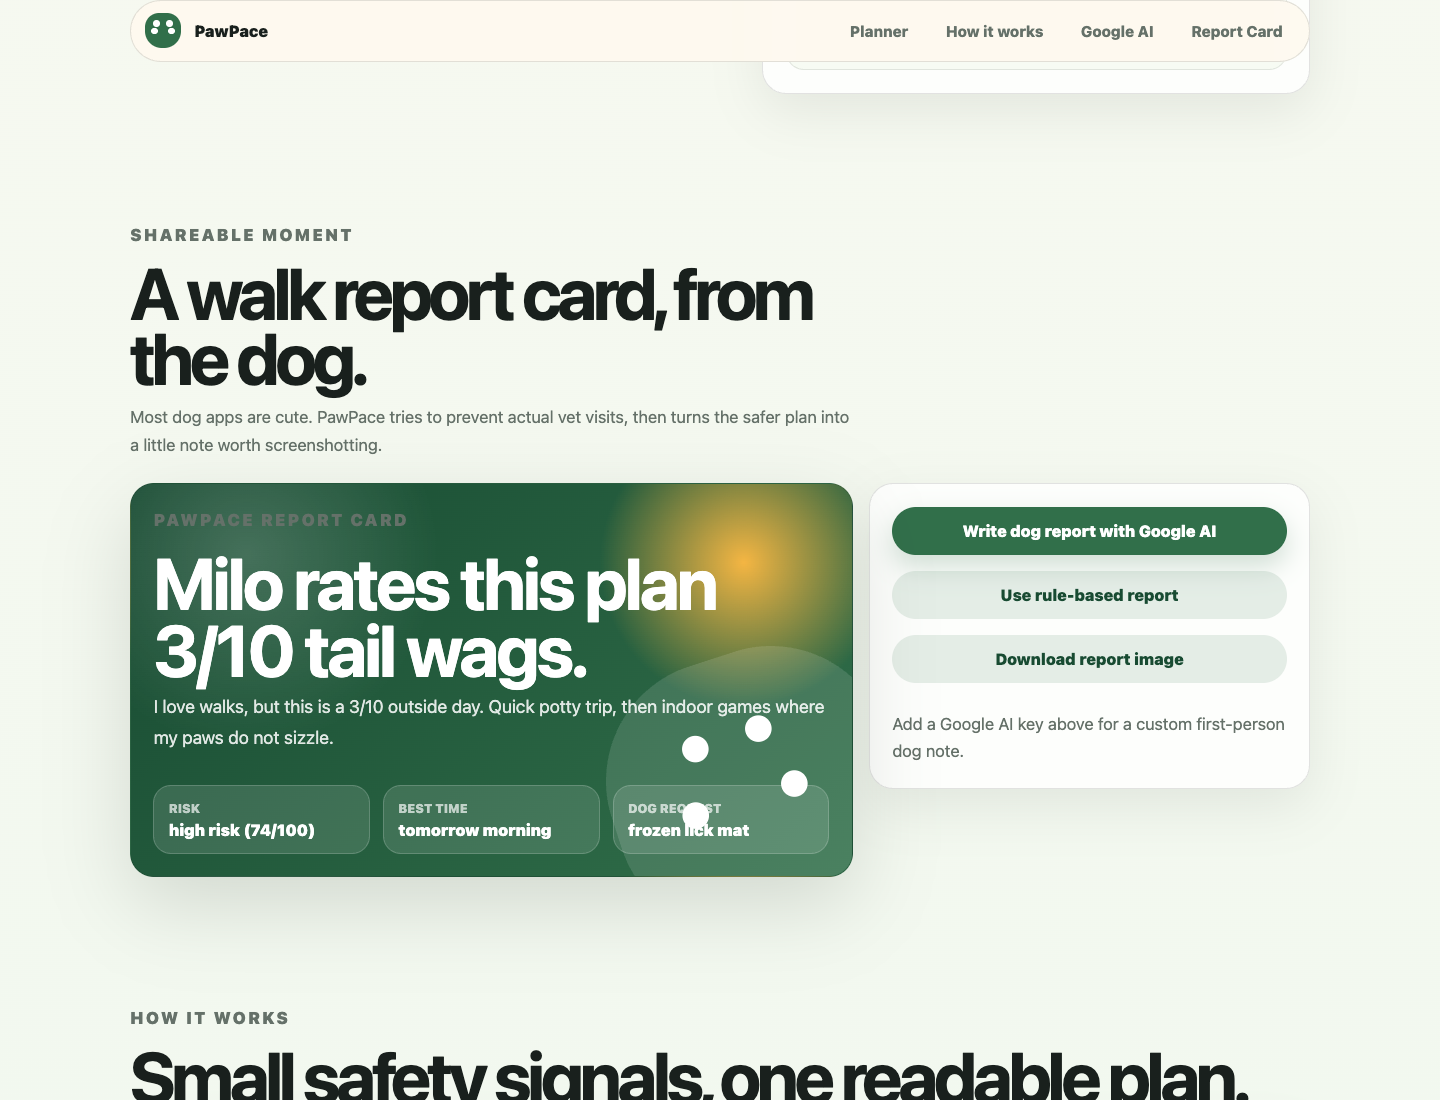
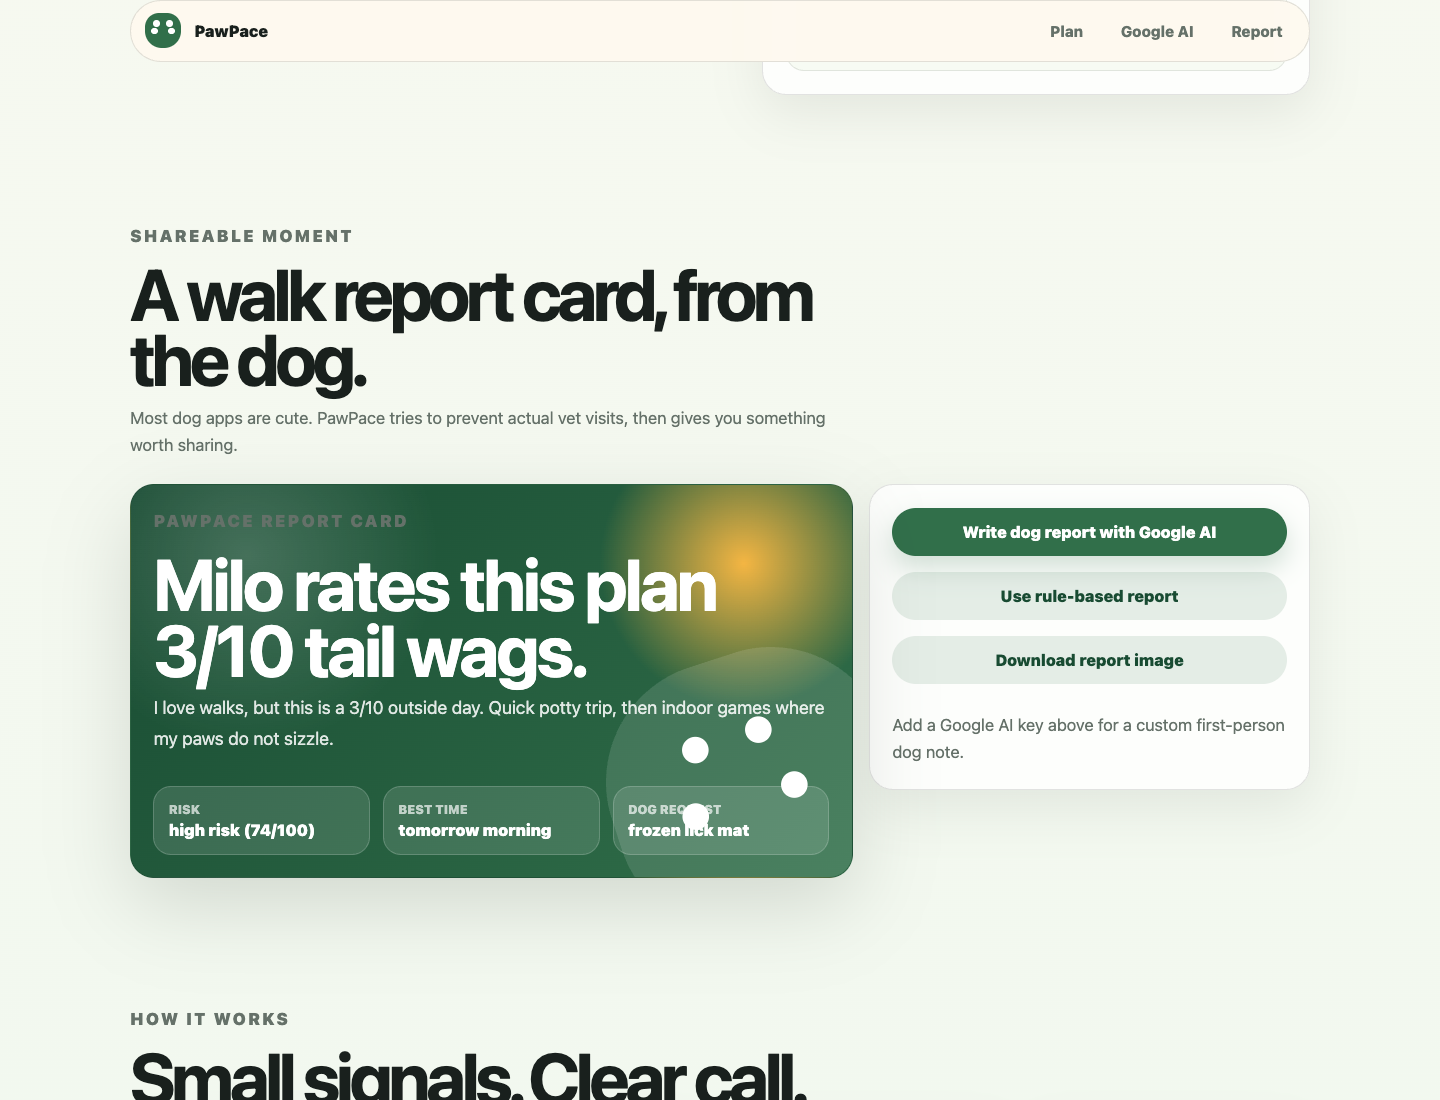
Trim PawPace UX copy

diff --git a/dog-days/index.html b/dog-days/index.html
@@ -32,10 +32,9 @@
         <span>PawPace</span>
       </a>
       <nav aria-label="Primary navigation">
-        <a href="#planner">Planner</a>
-        <a href="#how">How it works</a>
+        <a href="#planner">Plan</a>
         <a href="#ai">Google AI</a>
-        <a href="#report">Report Card</a>
+        <a href="#report">Report</a>
       </nav>
     </header>
 
@@ -49,13 +48,12 @@
             <span>the pace.</span>
           </h1>
           <p>
-            PawPace turns hot-weather guesses into a clear walk plan for dogs:
-            risk level, paw safety, hydration, cooler timing, and indoor backup
-            enrichment.
+            Live weather, paw risk, safer timing, and a dog report card in one
+            quick check.
           </p>
           <div class="hero-actions">
-            <a class="button primary" href="#planner">Build a walk plan</a>
-            <a class="button ghost" href="#ai">Try Google AI mode</a>
+            <a class="button primary" href="#planner">Start check</a>
+            <a class="button ghost" href="#report">See report card</a>
           </div>
         </div>
 
@@ -88,8 +86,7 @@
           <p class="eyebrow">Walk Planner</p>
           <h2 id="planner-title">Tell PawPace the day, the dog, and the plan.</h2>
           <p>
-            The score updates instantly. It is not veterinary advice, but it
-            gives a careful starting point for everyday decisions.
+            One form. One score. A safer yes/no before the leash comes out.
           </p>
         </div>
 
@@ -107,7 +104,7 @@
             <div class="field-row">
               <label>
                 Location for real weather
-                <span class="value-label">Uses Open-Meteo, no key needed</span>
+                <span class="value-label">Open-Meteo, no key</span>
                 <input
                   id="location"
                   name="location"
@@ -116,7 +113,7 @@
                 />
               </label>
               <div class="weather-action">
-                <p>Weather lookup</p>
+                <p>Weather</p>
                 <span class="value-label" data-weather-status>Manual values shown</span>
                 <button class="button ghost" type="button" data-weather-button>
                   Use live weather
@@ -226,9 +223,7 @@
 
             <ul class="plan-list" data-plan-list></ul>
 
-            <button class="button primary full" type="button" data-copy-plan>
-              Copy walk plan
-            </button>
+            <a class="button primary full" href="#report">Make report card</a>
             <p class="copy-status" data-copy-status aria-live="polite"></p>
           </aside>
         </div>
@@ -237,11 +232,10 @@
       <section id="ai" class="ai-section" aria-labelledby="ai-title">
         <div>
           <p class="eyebrow">Optional Prize Tech</p>
-          <h2 id="ai-title">Google AI mode for a custom enrichment plan.</h2>
+          <h2 id="ai-title">Google AI mode.</h2>
           <p>
-            PawPace works without an API key. If you add a Google AI Studio API
-            key, it can ask Gemini for a tailored indoor enrichment plan based
-            on the current dog profile and weather risk.
+            Optional Gemini help for backup games and dog-written report cards.
+            PawPace still works without a key.
           </p>
         </div>
         <div class="ai-card">
@@ -257,10 +251,6 @@
           <button class="button primary" type="button" data-ai-button>
             Generate with Google AI
           </button>
-          <p class="ai-note">
-            The key stays in this browser session and is sent only to Google
-            Generative Language API when you press the button.
-          </p>
           <div class="ai-output" data-ai-output aria-live="polite">
             No key? The regular planner still gives a complete rule-based plan.
           </div>
@@ -273,7 +263,7 @@
           <h2 id="report-title">A walk report card, from the dog.</h2>
           <p>
             Most dog apps are cute. PawPace tries to prevent actual vet visits,
-            then turns the safer plan into a little note worth screenshotting.
+            then gives you something worth sharing.
           </p>
         </div>
 
@@ -318,29 +308,29 @@
         </div>
       </section>
 
-      <section id="how" class="how-section" aria-labelledby="how-title">
+      <section id="how" class="how-section compact-section" aria-labelledby="how-title">
         <p class="eyebrow">How It Works</p>
-        <h2 id="how-title">Small safety signals, one readable plan.</h2>
+        <h2 id="how-title">Small signals. Clear call.</h2>
         <div class="how-grid">
           <article>
             <span>01</span>
             <h3>Heat load</h3>
-            <p>Temperature, humidity, coat, age, and face shape raise or lower the caution score.</p>
+            <p>Weather and dog sensitivity shape the score.</p>
           </article>
           <article>
             <span>02</span>
             <h3>Paw risk</h3>
-            <p>Pavement and walk length adjust the plan toward shade, shorter loops, or indoor games.</p>
+            <p>Pavement pushes the plan toward shade or shorter loops.</p>
           </article>
           <article>
             <span>03</span>
             <h3>Backup joy</h3>
-            <p>If the walk is risky, PawPace suggests enrichment instead of simply saying no.</p>
+            <p>Risky day? Swap the walk for indoor enrichment.</p>
           </article>
           <article>
             <span>04</span>
             <h3>Real numbers</h3>
-            <p>Open-Meteo can ground the planner with local temperature, humidity, and UV.</p>
+            <p>Open-Meteo grounds the check in local conditions.</p>
           </article>
         </div>
       </section>

diff --git a/dog-days/script.js b/dog-days/script.js
@@ -482,7 +482,7 @@ document.querySelectorAll("input, select").forEach((input) => {
   input.addEventListener("input", render);
   input.addEventListener("change", render);
 });
-el.copyPlan.addEventListener("click", copyPlan);
+el.copyPlan?.addEventListener("click", copyPlan);
 el.aiButton.addEventListener("click", generateAiPlan);
 el.weatherButton.addEventListener("click", useLiveWeather);
 el.reportButton.addEventListener("click", generateDogReport);
